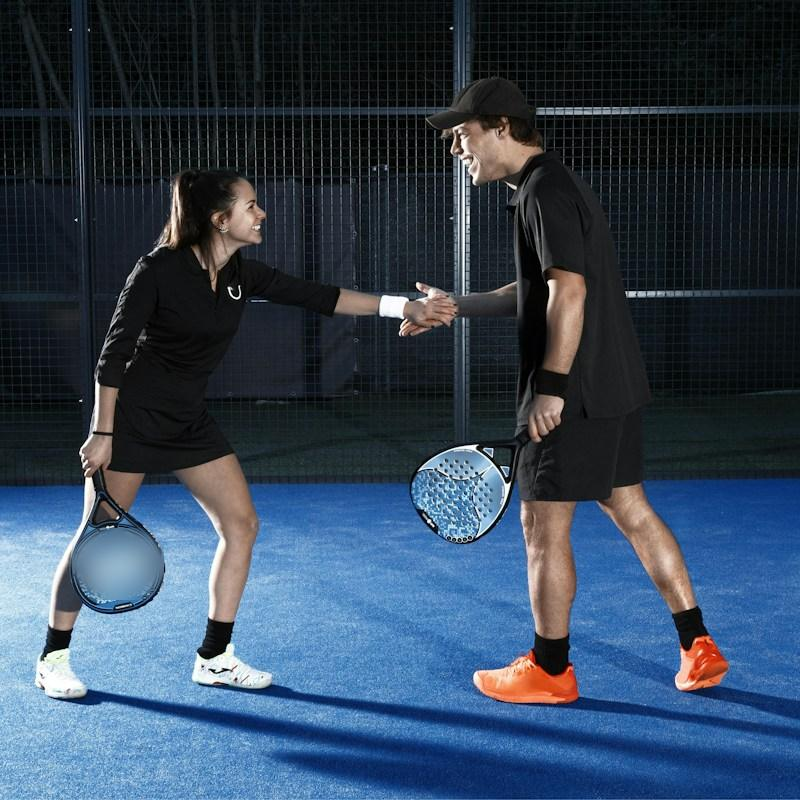
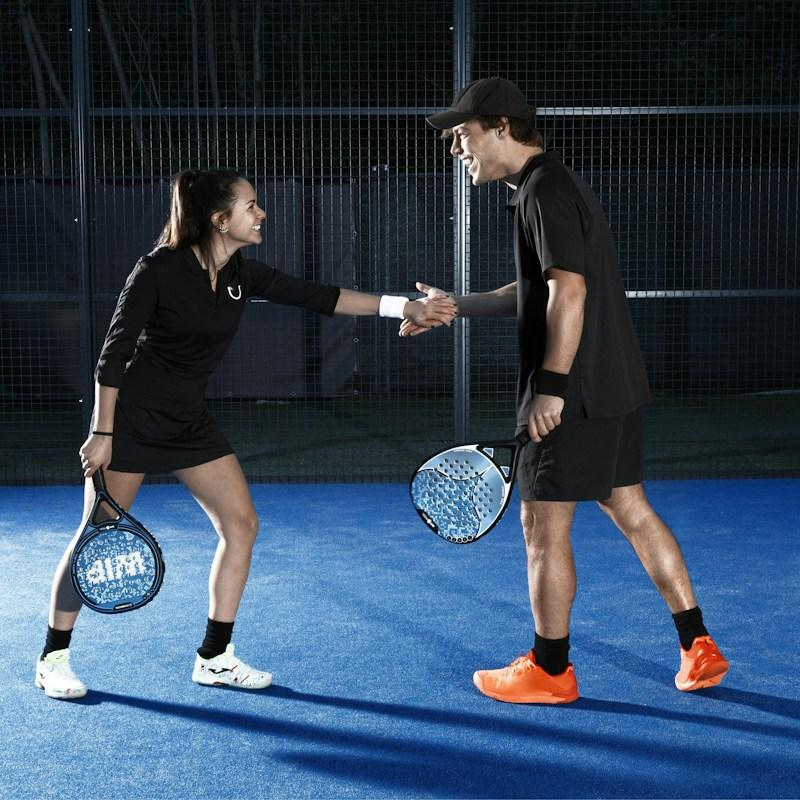
Padelsiden: formularen højere op, tider pr. hold, Darup ved Dyrskuepladsen, voksne nybegyndere på interesseliste
Billedet øverst uden sløring af ketsjeren.

Claude-Session: https://claude.ai/code/session_0128sp4d6qcy1kxewywued6c

Changed region(s): [[0.0938, 0.6562, 0.2188, 0.75]]

diff --git a/padel.html b/padel.html
@@ -1,7 +1,7 @@
 <!doctype html>
 <html lang="da">
 <head>
-<meta name="rtk-version" content="ef9a1dc7d9bf">
+<meta name="rtk-version" content="d95f7dbedacf">
 <script src="/opdater.js?v=f299a739b234" defer></script>
 <meta charset="utf-8">
 <meta name="viewport" content="width=device-width,initial-scale=1,viewport-fit=cover">
@@ -138,7 +138,15 @@
 .pv-nummer button{background:none;border:0;color:var(--pink);font-weight:700;cursor:pointer;font-family:inherit;font-size:15px}
 .pv-betal{background:var(--waitbg);color:var(--wait);border-radius:14px;padding:16px;margin-top:16px}
 .pv-test{font-size:13px;color:var(--muted);margin-top:14px;border-top:1px dashed var(--line2);padding-top:10px}
+.pv [hidden]{display:none!important}
 .pv-honning{position:absolute;left:-9999px;width:1px;height:1px;overflow:hidden}
+.pv-trinv{list-style:none;margin:26px 0 0;padding:0}
+.pv-trinv li{border-left:4px solid var(--teal);padding:2px 0 16px 16px}
+.pv-trinv li.nu{border-color:var(--pink)}
+.pv-trinv i{font-style:normal;font-size:12px;font-weight:700;letter-spacing:.12em;text-transform:uppercase;color:var(--court)}
+.pv-trinv b{display:block;font-size:18px;margin:2px 0 2px}
+.pv-trinv span{font-size:15px;color:var(--muted)}
+.pv-tilm{padding-top:72px}
 /* spørgsmål */
 .pv-faq{background:var(--soft)}
 .pv-faq .gitter{display:grid;grid-template-columns:1fr 1fr;gap:0 40px}
@@ -163,6 +171,13 @@
  .pv-baand{height:460px;background-position:58% 25%} .pv-baand p{font-size:28px} .pv-baand .w{padding-bottom:28px}
  .pv-kort3,.pv-trin{grid-template-columns:1fr} .pv-kort .pris{font-size:38px}
  .pv-form{padding:20px}
+ .pv-tilm{padding-top:44px}
+ .pv-tilm .pv-to{display:flex;flex-direction:column;gap:0}
+ .pv-tilm .pv-form{margin-top:8px}
+ .pv-tilm .pv-form{order:2}
+ .pv-tilm-v{display:contents}
+ .pv-tilm-v>.kick,.pv-tilm-v>h2,.pv-tilm-v>p.graa:first-of-type{order:1}
+ .pv-trinv,.pv-tilm-v>p:last-child{order:3}
  .pv-cta{display:block;position:sticky;bottom:0;z-index:5;background:rgba(255,255,255,.96);padding:12px 20px calc(12px + env(safe-area-inset-bottom));border-top:1px solid var(--line)}
  .pv-cta .knap{display:block;text-align:center}
  .pv-cta.skjult{display:none}
@@ -182,7 +197,7 @@
   <div class="w">
     <div class="kick">Nyt i Roskilde Tennis Klub · fra januar 2027</div>
     <h1>Padel hele året. <em>Sammen.</em></h1>
-    <p>Træning hver uge med trænere, gode makkere og masser af grin. Indendørs hos PADELPIT om vinteren og ude i Darup om sommeren. For børn, unge og voksne.</p>
+    <p>Træning hver uge med trænere, gode makkere og masser af grin. Indendørs hos PADELPIT om vinteren og ude i Darup ved Dyrskuepladsen om sommeren. For børn, unge og voksne.</p>
     <a class="knap" href="#tilmeld">Skriv mig på ventelisten</a>
     <div class="smaa">Det tager 3 minutter · 500 kr. i depositum pr. spiller, som trækkes fra prisen eller betales tilbage</div>
   </div>
@@ -191,90 +206,22 @@
 <section class="pv-fakta"><div class="w">
   <div><b>Hver uge</b><span>34 til 40 træninger om året</span></div>
   <div><b>8 til 80 år</b><span>Junior, Junior+ og voksen</span></div>
-  <div><b>Ude og inde</b><span>PADELPIT og Darup</span></div>
+  <div><b>Ude og inde</b><span>PADELPIT og Darup ved Dyrskuepladsen</span></div>
   <div><b>Fra 595 kr.</b><span>pr. kvartal for juniorer</span></div>
 </div></section>
 
-<section class="sek"><div class="w pv-to">
-  <div class="pv-foto" style="background-image:url(billeder/padel/aktion.jpg)" role="img" aria-label="En spiller slår en smash indendørs"><div class="maerke"><b>Onsdag og lørdag</b>Faste baner hele sæsonen. Ingen kamp om tiderne.</div></div>
-  <div>
-    <div class="kick">Derfor er det noget særligt</div>
-    <h2>Et rigtigt klubtilbud i padel. Til en pris, hvor alle kan være med.</h2>
-    <p>Padel er sjovt fra første bold. Man er altid fire på banen, bolden er i spil, og man griner mere end i de fleste andre sportsgrene. Nu kan du spille det hele året i en klub, med faste hold og en træner, der kender dig.</p>
-    <ul class="pv-liste">
-      <li><b>Træning hele året, inde og ude</b><span>Faste baner hos PADELPIT og klubbens egne baner i Darup om sommeren.</span></li>
-      <li><b>PADELPIT-medlemskab med i prisen</b><span>Som medlem af RTK får du fuldt medlemskab hos PADELPIT uden deres gebyr på 59 kr. om måneden, med gode priser på baneleje i Roskilde og Karlslunde.</span></li>
-      <li><b>Gratis adgang til udebanerne i Darup</b><span>Spil med dine nye makkere, når det passer jer.</span></li>
-      <li><b>Camps i ferierne</b><span>Vinter, påske og efterår for juniorerne.</span></li>
-      <li><b>Et fællesskab, ikke et kursus</b><span>Du bliver en del af Roskilde Tennis Klub med alt, hvad det giver.</span></li>
-    </ul>
-  </div>
-</div></section>
-
-<section class="pv-baand" role="img" aria-label="En flok venner holder om hinanden i solnedgangen"><div class="w"><p>Fire på banen. Én bold. <em>Og en ny flok at spille med hver uge.</em></p></div></section>
-
-<section class="sek pv-hold"><div class="w">
-  <div class="kick">Hold og priser</div>
-  <h2>Find dit hold</h2>
-  <p class="graa" style="max-width:700px">Holdene lægges efter alder, niveau og de dage, I kan. Nybegyndere er velkomne på alle hold.</p>
-  <div class="pv-kort3">
-    <div class="pv-kort"><div class="alder">8 til 12 år</div><h3>Junior</h3><div class="pris">595 kr. <small>pr. kvartal</small></div>
-      <ul><li>1 time om ugen</li><li>Onsdag eftermiddag eller lørdag formiddag</li><li>Lønnet træner og en frivillig hjælper</li><li>8 til 10 spillere på 2 baner</li></ul></div>
-    <div class="pv-kort"><div class="alder">10 til 18 år</div><h3>Junior+</h3><div class="pris">875 kr. <small>pr. kvartal</small></div>
-      <ul><li>1,5 time om ugen</li><li>Delt i to aldersgrupper</li><li>Camps i vinter-, påske- og efterårsferien</li><li>Dygtige 16 til 18-årige kan spille med de voksne</li></ul></div>
-    <div class="pv-kort"><div class="alder">18 år og op</div><h3>Voksen</h3><div class="pris">1.195 kr. <small>pr. kvartal</small></div>
-      <ul><li>1,5 time om ugen, onsdag sidst på eftermiddagen</li><li>Træner hver anden gang, americano de andre</li><li>Let øvede til øvede</li><li>Lørdagshold, hvis der er interesse</li></ul></div>
-  </div>
-  <p class="pv-note">Er du ikke medlem af RTK i forvejen, kommer kontingentet oveni: 144 kr. pr. kvartal (3 til 10 år), 214 kr. (11 til 24 år) eller 383 kr. (25 år og op) og et indmeldelsesgebyr på 250 kr. Til gengæld får du PADELPIT-medlemskabet og Darup med.</p>
-</div></section>
-
-<section class="sek" id="steder"><div class="w">
-  <div class="kick">Her spiller vi</div>
-  <h2>Inde om vinteren. Ude om sommeren.</h2>
-  <div class="pv-steder">
-    <div class="pv-kortbill"><img src="billeder/padel/kort.jpg" width="1800" height="1120" loading="lazy" alt="Kort over Roskilde med PADELPIT på Københavnsvej (1) og klubbens udebaner på Darupvej (2)"></div>
-    <div>
-      <div class="pv-sted"><span class="nr">1</span><div>
-        <b>PADELPIT Roskilde</b><div class="adr">Københavnsvej 136B, 4000 Roskilde</div>
-        <p>Indendørs baner. Onsdagsholdene træner her hele året undtagen i sommerferien. Lørdagsholdene træner her fra september til april.</p>
-        <a href="https://www.google.com/maps/search/?api=1&amp;query=K%C3%B8benhavnsvej+136B%2C+4000+Roskilde" target="_blank" rel="noopener">Find vej</a>
-      </div></div>
-      <div class="pv-sted"><span class="nr">2</span><div>
-        <b>RTK's baner i Darup</b><div class="adr">Darupvej 52, 4000 Roskilde</div>
-        <p>Klubbens egne udendørs baner. Lørdagsholdene træner her fra maj til august, og som medlem spiller du gratis, når I har lyst.</p>
-        <a href="https://www.google.com/maps/search/?api=1&amp;query=Darupvej+52%2C+4000+Roskilde" target="_blank" rel="noopener">Find vej</a>
-      </div></div>
-    </div>
-  </div>
-</div></section>
-
-<section class="sek" style="padding-top:0"><div class="w">
-  <div class="kick">Sådan foregår det</div>
-  <h2>Fra venteliste til første træning</h2>
-  <div class="pv-trin">
-    <div class="nu"><i>Nu</i><b>Skriv jer op her</b><span>Spillere, dage og hvordan I vil give en hånd. Du får et nummer på ventelisten.</span></div>
-    <div><i>Samme dag</i><b>Betal 500 kr. pr. spiller</b><span>I ForeningLet med MobilePay. Først da gælder pladsen på listen.</span></div>
-    <div><i>15. december</i><b>Vi sætter holdene</b><span>Efter alder, niveau, dage og frivillighed. Ikke efter hvem der var hurtigst.</span></div>
-    <div><i>Før jul</i><b>I får svar</b><span>Får I plads, trækkes depositummet fra første kvartal. Ellers får I pengene tilbage.</span></div>
-  </div>
-</div></section>
-
-<section class="sek pv-faelles"><div class="w pv-to">
-  <div>
-    <div class="kick">Et fælles projekt</div>
-    <h2>Vi bygger det sammen</h2>
-    <p>Vi holder prisen nede, så alle kan være med. Det kan vi, fordi vi hjælper hinanden. Derfor spørger vi alle, hvordan de kan give en hånd, hvis de får plads. Det kan være spilleren selv, en forælder eller en anden i familien. Det behøver ikke være meget, men alle giver lidt.</p>
-    <div class="pv-chips"><span>Hjælpe ved arrangementer og camps</span><span>Være hjælpetræner</span><span>Forælder på holdet som støtte for træneren</span><span>Kørsel og praktisk</span><span>Foto og sociale medier</span><span>Sponsorer og netværk</span><span>RTK Padelcircle</span></div>
-  </div>
-  <div class="pv-foto" style="background-image:url(billeder/padel/hold.jpg);min-height:560px;background-position:center 30%" role="img" aria-label="Spillere og træner slår ketsjerne sammen over nettet hos PADELPIT"><div class="maerke"><b>Hos PADELPIT</b>RTK på banen, november 2026</div></div>
-</div></section>
-
 <section class="sek pv-tilm" id="tilmeld"><div class="w pv-to">
-  <div>
+<div class="pv-tilm-v">
     <div class="kick">Venteliste 2027</div>
     <h2>Skriv jer op</h2>
     <p class="graa">Ventelisten lukker 15. december 2026. Du kan skrive flere spillere op på én gang, fx dig selv og dine børn. Det er ikke først til mølle, så tag den tid, du skal bruge.</p>
-    <div class="pv-foto" style="background-image:url(billeder/padel/junior.jpg);min-height:300px;margin-top:26px" role="img" aria-label="En junior returnerer bolden, mens træneren ser på, hos PADELPIT"></div>
+    <ol class="pv-trinv">
+      <li class="nu"><i>Nu</i><b>Skriv jer op her</b><span>Spillere, dage og hvordan I vil give en hånd. Du får et nummer på ventelisten.</span></li>
+      <li><i>Samme dag</i><b>Betal 500 kr. pr. spiller</b><span>I ForeningLet med MobilePay. Først da gælder pladsen på listen.</span></li>
+      <li><i>15. december</i><b>Vi sætter holdene</b><span>Efter alder, niveau, dage og frivillighed. Ikke efter hvem der var hurtigst.</span></li>
+      <li><i>Før jul</i><b>I får svar</b><span>Får I plads, trækkes depositummet fra første kvartal. Ellers får I pengene tilbage.</span></li>
+    </ol>
+    <p class="graa" style="font-size:15px;margin-top:18px"><a href="#hold">Se hold, tider og priser</a> · <a href="#steder">Se hvor vi spiller</a></p>
   </div>
 
   <form class="pv-form" id="form" novalidate>
@@ -293,10 +240,10 @@
       <button type="button" class="pv-tilfoej" id="tilfoej">+ Tilføj en spiller mere</button>
       <fieldset><legend>Hvilke dage kan I?</legend>
         <div class="pv-vg">
-          <label><input type="checkbox" name="dag" value="onsdag" checked><span>Onsdag 15 til 19</span></label>
-          <label><input type="checkbox" name="dag" value="loerdag" checked><span>Lørdag 9 til 13</span></label>
+          <label><input type="checkbox" name="dag" value="onsdag" checked><span>Onsdag</span></label>
+          <label><input type="checkbox" name="dag" value="loerdag" checked><span>Lørdag formiddag</span></label>
         </div>
-        <div class="graa" style="font-size:13px;margin-top:6px">Vælg gerne begge. Det øger chancen for en plads.</div>
+        <div class="graa" style="font-size:13px;margin-top:6px">Onsdag træner Junior mellem 15 og 17.30, Junior+ mellem 15 og 19 og voksne fra kl. 17. Lørdag er kl. 9 til 13 og mest for juniorer. Vælg gerne begge, det øger chancen for en plads.</div>
       </fieldset>
       <div class="pv-fejl" id="fejl1" role="alert"></div>
       <button type="button" class="knap" data-videre="2">Videre</button>
@@ -365,12 +312,79 @@
   </form>
 </div></section>
 
+<section class="sek"><div class="w pv-to">
+  <div class="pv-foto" style="background-image:url(billeder/padel/aktion.jpg)" role="img" aria-label="En spiller slår en smash indendørs"><div class="maerke"><b>Onsdag og lørdag</b>Juniorer onsdag eftermiddag og lørdag formiddag, voksne onsdag fra kl. 17.</div></div>
+  <div>
+    <div class="kick">Derfor er det noget særligt</div>
+    <h2>Et rigtigt klubtilbud i padel. Til en pris, hvor alle kan være med.</h2>
+    <p>Padel er sjovt fra første bold. Man er altid fire på banen, bolden er i spil, og man griner mere end i de fleste andre sportsgrene. Nu kan du spille det hele året i en klub, med faste hold og en træner, der kender dig.</p>
+    <ul class="pv-liste">
+      <li><b>Træning hele året, inde og ude</b><span>Faste baner hos PADELPIT og klubbens egne baner i Darup ved Dyrskuepladsen om sommeren.</span></li>
+      <li><b>PADELPIT-medlemskab med i prisen</b><span>Som medlem af RTK får du fuldt medlemskab hos PADELPIT uden deres gebyr på 59 kr. om måneden, med gode priser på baneleje i Roskilde og Karlslunde.</span></li>
+      <li><b>Gratis adgang til udebanerne i Darup</b><span>Spil med dine nye makkere, når det passer jer.</span></li>
+      <li><b>Camps i ferierne</b><span>Vinter, påske og efterår for juniorerne.</span></li>
+      <li><b>Et fællesskab, ikke et kursus</b><span>Du bliver en del af Roskilde Tennis Klub med alt, hvad det giver.</span></li>
+    </ul>
+  </div>
+</div></section>
+
+<section class="pv-baand" role="img" aria-label="En flok venner holder om hinanden i solnedgangen"><div class="w"><p>Fire på banen. Én bold. <em>Og en ny flok at spille med hver uge.</em></p></div></section>
+
+<section class="sek pv-hold" id="hold"><div class="w">
+  <div class="kick">Hold og priser</div>
+  <h2>Find dit hold</h2>
+  <p class="graa" style="max-width:700px">Holdene lægges efter alder, niveau og de dage, I kan. Børn og unge, der aldrig har prøvet padel, er meget velkomne. Voksenholdet er for let øvede til øvede.</p>
+  <div class="pv-kort3">
+    <div class="pv-kort"><div class="alder">8 til 12 år</div><h3>Junior</h3><div class="pris">595 kr. <small>pr. kvartal</small></div>
+      <ul><li>1 time om ugen</li><li>Onsdag mellem 15 og 17.30 eller lørdag formiddag</li><li>Lønnet træner og en frivillig hjælper</li><li>8 til 10 spillere på 2 baner</li></ul></div>
+    <div class="pv-kort"><div class="alder">10 til 18 år</div><h3>Junior+</h3><div class="pris">875 kr. <small>pr. kvartal</small></div>
+      <ul><li>1,5 time om ugen</li><li>Onsdag mellem 15 og 19 eller lørdag formiddag</li><li>Delt i to aldersgrupper</li><li>Camps i vinter-, påske- og efterårsferien</li><li>Dygtige 16 til 18-årige kan spille med de voksne</li></ul></div>
+    <div class="pv-kort"><div class="alder">18 år og op</div><h3>Voksen</h3><div class="pris">1.195 kr. <small>pr. kvartal</small></div>
+      <ul><li>1,5 time om ugen, onsdag fra kl. 17</li><li>Træner hver anden gang, americano de andre</li><li>Let øvede til øvede. Er du helt ny, så se nedenfor</li><li>Lørdagshold, hvis der er interesse</li></ul></div>
+  </div>
+  <p class="pv-note">Er du ikke medlem af RTK i forvejen, kommer kontingentet oveni: 144 kr. pr. kvartal (3 til 10 år), 214 kr. (11 til 24 år) eller 383 kr. (25 år og op) og et indmeldelsesgebyr på 250 kr. Til gengæld får du PADELPIT-medlemskabet og Darup med.</p>
+</div></section>
+
+<section class="sek" id="steder"><div class="w">
+  <div class="kick">Her spiller vi</div>
+  <h2>Inde om vinteren. Ude om sommeren.</h2>
+  <div class="pv-steder">
+    <div class="pv-kortbill"><img src="billeder/padel/kort.jpg" width="1800" height="1120" loading="lazy" alt="Kort over Roskilde med PADELPIT på Københavnsvej (1) og klubbens udebaner på Darupvej ved Dyrskuepladsen (2)"></div>
+    <div>
+      <div class="pv-sted"><span class="nr">1</span><div>
+        <b>PADELPIT Roskilde</b><div class="adr">Københavnsvej 136B, 4000 Roskilde</div>
+        <p>Indendørs baner. Onsdagsholdene træner her hele året undtagen i sommerferien. Lørdagsholdene træner her fra september til april.</p>
+        <a href="https://www.google.com/maps/search/?api=1&amp;query=K%C3%B8benhavnsvej+136B%2C+4000+Roskilde" target="_blank" rel="noopener">Find vej</a>
+      </div></div>
+      <div class="pv-sted"><span class="nr">2</span><div>
+        <b>RTK's baner i Darup (ved Dyrskuepladsen)</b><div class="adr">Darupvej 52, 4000 Roskilde</div>
+        <p>Klubbens egne udendørs baner. Lørdagsholdene træner her fra maj til august, og som medlem spiller du gratis, når I har lyst.</p>
+        <a href="https://www.google.com/maps/search/?api=1&amp;query=Darupvej+52%2C+4000+Roskilde" target="_blank" rel="noopener">Find vej</a>
+      </div></div>
+      <div class="pv-foto" style="background-image:url(billeder/padel/junior.jpg);min-height:220px;margin-top:8px" role="img" aria-label="En junior returnerer bolden, mens træneren ser på, hos PADELPIT"></div>
+    </div>
+  </div>
+</div></section>
+
+
+<section class="sek pv-faelles"><div class="w pv-to">
+  <div>
+    <div class="kick">Et fælles projekt</div>
+    <h2>Vi bygger det sammen</h2>
+    <p>Vi holder prisen nede, så alle kan være med. Det kan vi, fordi vi hjælper hinanden. Derfor spørger vi alle, hvordan de kan give en hånd, hvis de får plads. Det kan være spilleren selv, en forælder eller en anden i familien. Det behøver ikke være meget, men alle giver lidt.</p>
+    <div class="pv-chips"><span>Hjælpe ved arrangementer og camps</span><span>Være hjælpetræner</span><span>Forælder på holdet som støtte for træneren</span><span>Kørsel og praktisk</span><span>Foto og sociale medier</span><span>Sponsorer og netværk</span><span>RTK Padelcircle</span></div>
+  </div>
+  <div class="pv-foto" style="background-image:url(billeder/padel/hold.jpg);min-height:560px;background-position:center 30%" role="img" aria-label="Spillere og træner slår ketsjerne sammen over nettet hos PADELPIT"><div class="maerke"><b>Hos PADELPIT</b>RTK på banen, november 2026</div></div>
+</div></section>
+
+
+
 <section class="sek pv-faq"><div class="w">
   <h2>Spørgsmål og svar</h2>
   <div class="gitter">
     <div><b>Skal jeg være medlem af RTK?</b><span>Nej, alle kan skrive sig op. Får du plads, bliver du medlem, og så følger PADELPIT-medlemskabet og Darup med.</span></div>
     <div><b>Hvad hvis vi ikke får plads?</b><span>Så får I de 500 kr. tilbage. I kan også vælge at blive stående på listen, hvis der bliver en plads senere.</span></div>
-    <div><b>Skal man kunne spille i forvejen?</b><span>Nej. Nybegyndere er velkomne, og holdene lægges efter niveau.</span></div>
+    <div><b>Skal man kunne spille i forvejen?</b><span>Ikke som barn eller ung. Juniorholdene er også for nybegyndere. Voksenholdet er for let øvede til øvede. Er du voksen og helt ny, så skriv dig op alligevel. Du kommer på en interesseliste og betaler ikke depositum, og vi vender tilbage, når vi har et tilbud til nybegyndere.</span></div>
     <div><b>Hvorfor et depositum?</b><span>Så vi ved, hvem der mener det, og kan sætte holdene, før træningen starter i januar.</span></div>
     <div><b>Kan vi vælge dag?</b><span>I fortæller, hvilke dage I kan. Kan I begge dage, er chancen større.</span></div>
     <div><b>Hvad sker der med vores oplysninger?</b><span>De bruges kun til at sætte holdene og slettes, hvis I ikke får plads. Læs mere i <a href="privatliv.html">privatlivsteksten</a>.</span></div>
@@ -436,9 +450,16 @@
     var foed = d.querySelector('[data-f=foed]'), hold = d.querySelector('.hold');
     foed.addEventListener('change', function () {
       if (!foed.value) { hold.textContent = ''; return; }
-      var h = holdFor(alder(new Date(foed.value)));
-      hold.textContent = h.t; hold.classList.toggle('fejl', !!h.fejl);
+      opdHold();
     });
+    d.addEventListener('change', function (e) { if (e.target.name === 'erf' + d.dataset.nr) opdHold(); });
+    function opdHold() {
+      if (!foed.value) { hold.textContent = ''; return; }
+      var a = alder(new Date(foed.value)), h = holdFor(a);
+      var erf = d.querySelector('input[type=radio]:checked');
+      if (a >= 18 && erf && erf.value === '0') h = { t: 'Voksenholdet er for let øvede. Du kommer på interesselisten til nybegyndere og betaler ikke depositum nu.' };
+      hold.textContent = h.t; hold.classList.toggle('fejl', !!h.fejl);
+    }
     var fj = d.querySelector('.fjern');
     if (fj) fj.addEventListener('click', function () { d.remove(); omnummerer(); });
   }
@@ -499,11 +520,16 @@
     };
     // Motoren (handlingen ventelisteNy) er ikke bygget endnu. Indtil da vises kvitteringen med et testnummer.
     var nr = 'PV-T' + String(Math.floor(Math.random() * 900) + 100);
-    var antal = data.spillere.length;
+    var antal = data.spillere.filter(function (x) { return !(alder(new Date(x.foed)) >= 18 && x.erfaring === 0); }).length;
     document.getElementById('takH').textContent = 'Tak, ' + navn.split(' ')[0];
     document.getElementById('takT').innerHTML = '<b>' + data.spillere.map(function (s) { return s.navn.split(' ')[0]; }).join(' og ').replace(/&/g, '&amp;').replace(/</g, '&lt;') + '</b> ' + (antal > 1 ? 'står' : 'står') + ' nu på ventelisten.';
     document.getElementById('nummer').textContent = nr;
-    document.getElementById('beloeb').textContent = antal + (antal > 1 ? ' spillere' : ' spiller') + ' × 500 kr. = ' + (antal * PRIS).toLocaleString('da-DK') + ' kr.';
+    var nyb = data.spillere.length - antal;
+    document.getElementById('beloeb').textContent = antal + (antal > 1 ? ' spillere' : ' spiller') + ' × 500 kr. = ' + (antal * PRIS).toLocaleString('da-DK') + ' kr.' + (nyb ? ' Nybegyndere på interesselisten betaler ikke nu.' : '');
+    var betaling = antal > 0;
+    document.querySelector('.pv-betal').hidden = !betaling; document.getElementById('betal').hidden = !betaling;
+    document.getElementById('betal').nextElementSibling.hidden = !betaling;
+    if (!betaling) document.getElementById('takT').innerHTML = '<b>Du står nu på interesselisten til voksne nybegyndere.</b> Du skal ikke betale noget nu. Vi vender tilbage, når vi har et tilbud.';
     window.__venteliste = data;
     vis(3);
   });
